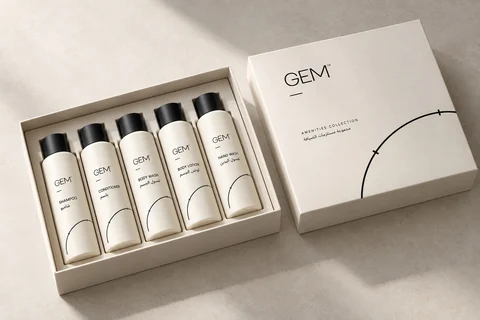
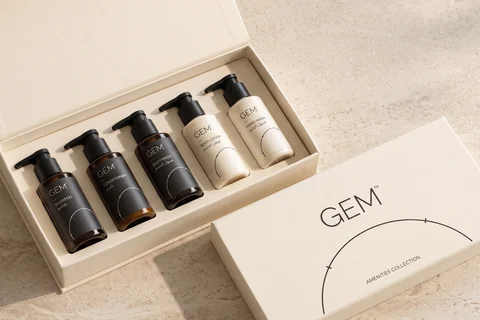
feat: integrate owner-approved room, travel, lobby and turndown images (slide 4 rule)
Replaces the format-room and format-travel sources and exports and the lobby and turndown
scenes with the 31 Oct owner-approved regenerations; alt text updated (EN and AR);
manifests and dist rebuilt; approval record added. Validator 0 failures; Chromium and
Firefox 37/37. Visual approval only; rights stay open.

diff --git a/website/remake/dist/ar/about/index.html b/website/remake/dist/ar/about/index.html
@@ -1,5 +1,5 @@
 <!doctype html><html lang="ar" dir="rtl"><head><meta charset="utf-8"><meta http-equiv="Content-Security-Policy" content="form-action 'none'"><meta name="viewport" content="width=device-width,initial-scale=1"><title>عن GEM | مورّد وشريك في قطاع الضيافة</title><meta name="description" content="تعرّف على GEM وتوجّهها نحو هوية متناسقة لمستلزمات الضيوف والتغليف، للمُلّاك والمطوّرين وفرق التشغيل والمشتريات في السعودية والخليج."><meta name="robots" content="noindex,nofollow"><meta name="theme-color" content="#12171D"><meta property="og:title" content="عن GEM | مورّد وشريك في قطاع الضيافة"><meta property="og:description" content="تعرّف على GEM وتوجّهها نحو هوية متناسقة لمستلزمات الضيوف والتغليف، للمُلّاك والمطوّرين وفرق التشغيل والمشتريات في السعودية والخليج."><meta property="og:site_name" content="GEM"><meta property="og:type" content="website"><meta property="og:locale" content="ar_SA"><meta property="og:locale:alternate" content="en_GB"><meta property="og:image" content="/assets/social.png"><meta property="og:image:width" content="1200"><meta property="og:image:height" content="630"><meta property="og:image:alt" content="مجموعة مستلزمات الضيافة والتغليف من GEM"><meta name="twitter:image" content="/assets/social.png"><meta name="twitter:card" content="summary_large_image"><meta name="twitter:title" content="عن GEM | مورّد وشريك في قطاع الضيافة"><meta name="twitter:description" content="تعرّف على GEM وتوجّهها نحو هوية متناسقة لمستلزمات الضيوف والتغليف، للمُلّاك والمطوّرين وفرق التشغيل والمشتريات في السعودية والخليج."><link rel="icon" href="/favicon.svg" type="image/svg+xml"><link rel="icon" href="/favicon-32.png" type="image/png" sizes="32x32"><link rel="apple-touch-icon" href="/apple-touch-icon.png"><link rel="preload" href="/assets/arabic.woff2" as="font" type="font/woff2" crossorigin><link rel="stylesheet" href="/style.css?v=41d4e1cbed"><link rel="stylesheet" href="/pilot.css?v=810ac6fd34"><link rel="stylesheet" href="/layout.css?v=5aac60fba3"><link rel="stylesheet" href="/integration.css?v=3925b3f7fa"><script src="/app.js?v=bc7d7f356b" defer></script></head><body data-page="about" data-lang="ar"><a class="skip" href="#main">انتقل إلى المحتوى</a><header class="site-header"><a class="logo" href="/ar/" aria-label="GEM — الرئيسية"><img src="/assets/logo-ink.svg" width="142" height="46" alt="GEM"></a><button class="menu-toggle" aria-expanded="false" aria-controls="navigation">القائمة<span aria-hidden="true">＋</span></button><nav id="navigation" aria-label="التنقل الرئيسي"><a  class="" href="/ar/amenities-packaging/">مستلزمات الضيافة والتغليف</a><a aria-current="page" class="" href="/ar/about/">عن GEM</a><a  class="nav-cta" href="/ar/contact/">لنتحدث عن مشروعك</a><a class="language" href="/en/about/" lang="en" dir="ltr">English</a></nav></header><main id="main"><section class="hero" aria-labelledby="h1">
- <picture><img src="/assets/lobby.webp" alt="عبوة غسول يدين كهرمانية من GEM بمضخة على قاعدة حجرية أمام جدار منحوت وظلال شبكية" fetchpriority="high" decoding="async"></picture>
+ <picture><img src="/assets/lobby.webp" alt="عبوة غسول اليدين الكريمية من GEM بمضخة على قاعدة حجرية أمام جدار منحوت وظلال شبكية" fetchpriority="high" decoding="async"></picture>
  <div class="hero-copy">
   <h1 id="h1">هوية واحدة.<br>ورؤية واضحة.</h1>
   <p class="intro">تتبنّى GEM نهجًا دقيقًا ومتزنًا لمستلزمات الضيافة والتغليف. غايتنا أن يسهم كل تفصيل في تجربة ضيف متناسقة.</p>

diff --git a/website/remake/dist/ar/index.html b/website/remake/dist/ar/index.html
@@ -14,14 +14,14 @@
 <section>
  <div class="wrap split">
   <div class="copy"><h2>من أول تفصيل<br>إلى تجربة متكاملة.</h2><p>يتعرّف الضيف إلى المنشأة من خلال تفاصيلها. عبوة مستلزمات. تغليف ترحيبي. معلومة على ملصق. يجمع توجّه <bdi lang="en">GEM</bdi> هذه العناصر بلغة بصرية متناسقة، تراعي الاحتياجات العملية لكل منشأة.</p></div>
-  <figure><img src="/assets/turndown.webp" alt="عبوتان كهرمانيتان من GEM بمضخة على صينية خشبية بجانب بطاقة GEM ومنديل كتاني" loading="lazy" decoding="async"></figure>
+  <figure><img src="/assets/turndown.webp" alt="عبوة غسول الجسم الكهرمانية وعبوة لوشن الجسم الكريمية من GEM، كلتاهما بمضخة، على صينية خشبية بجانب بطاقة GEM ومنديل كتاني" loading="lazy" decoding="async"></figure>
  </div>
 </section>
 <section class="tone-sand">
  <div class="wrap cards">
   <article class="card"><img src="/assets/carton.webp" alt="عبوة شامبو كهرمانية من GEM بمضخة أمام علبة GEM كريمية على رف حجري" loading="lazy" decoding="async"><div class="body"><h3>مستلزمات الضيوف</h3><p>خمسة منتجات أولية تجمعها هوية واضحة وترتيب متّسق للمعلومات.</p><a class="more" href="/ar/amenities-packaging/#pilot-products">استكشف المجموعة الأولية <span aria-hidden="true">→</span></a></div></article>
   <article class="card"><img src="/assets/packaging.webp" alt="علب تقديم كريمية من GEM وعلبة كرافت وبطاقة GEM على سطح من الترافرتين" loading="lazy" decoding="async"><div class="body"><h3>صيغ التغليف</h3><p>صيغ للغرف، والتثبيت على الجدار، والسفر، تستجيب لسياقات مختلفة في الضيافة.</p><a class="more" href="/ar/amenities-packaging/#formats">تعرّف على الصيغ <span aria-hidden="true">→</span></a></div></article>
-  <article class="card"><img src="/assets/lobby.webp" alt="عبوة غسول يدين كهرمانية من GEM بمضخة على قاعدة حجرية أمام جدار منحوت وظلال شبكية" loading="lazy" decoding="async"><div class="body"><h3>برامج المنشآت</h3><p>يجري تحديد برنامجَي <bdi lang="en">Property Edition</bdi> و<bdi lang="en">Bespoke Programme</bdi>. النطاق والتوافر قيد التحديد.</p><a class="more" href="/ar/amenities-packaging/#programmes">استكشف التوجّه <span aria-hidden="true">→</span></a></div></article>
+  <article class="card"><img src="/assets/lobby.webp" alt="عبوة غسول اليدين الكريمية من GEM بمضخة على قاعدة حجرية أمام جدار منحوت وظلال شبكية" loading="lazy" decoding="async"><div class="body"><h3>برامج المنشآت</h3><p>يجري تحديد برنامجَي <bdi lang="en">Property Edition</bdi> و<bdi lang="en">Bespoke Programme</bdi>. النطاق والتوافر قيد التحديد.</p><a class="more" href="/ar/amenities-packaging/#programmes">استكشف التوجّه <span aria-hidden="true">→</span></a></div></article>
  </div>
 </section>
 <section class="on-texture">

diff --git a/website/remake/dist/en/index.html b/website/remake/dist/en/index.html
@@ -14,14 +14,14 @@
 <section>
  <div class="wrap split">
   <div class="copy"><h2>From the first object<br>to the whole experience.</h2><p>A guest encounters a property through its details. An amenity bottle. A welcome pack. The information on a label. <bdi lang="en">GEM</bdi>’s direction brings these touchpoints into a consistent visual language, with room for the practical needs of each property.</p></div>
-  <figure><img src="/assets/turndown.webp" alt="Two GEM amber pump bottles on a wooden tray beside a branded GEM card and a linen napkin" loading="lazy" decoding="async"></figure>
+  <figure><img src="/assets/turndown.webp" alt="A GEM amber Body Wash and a cream Body Lotion, both with pumps, on a wooden tray beside a branded GEM card and a linen napkin" loading="lazy" decoding="async"></figure>
  </div>
 </section>
 <section class="tone-sand">
  <div class="wrap cards">
   <article class="card"><img src="/assets/carton.webp" alt="GEM amber shampoo pump bottle in front of a branded cream GEM carton on a stone shelf" loading="lazy" decoding="async"><div class="body"><h3>Guest amenities</h3><p>Five pilot products, sharing a clear identity and information order.</p><a class="more" href="/en/amenities-packaging/#pilot-products">Explore the pilot <span aria-hidden="true">→</span></a></div></article>
   <article class="card"><img src="/assets/packaging.webp" alt="Branded GEM cream presentation boxes, a kraft carton and a GEM tag on travertine" loading="lazy" decoding="async"><div class="body"><h3>Packaging formats</h3><p>Room, wall-mounted and travel formats, shaped around different hospitality contexts.</p><a class="more" href="/en/amenities-packaging/#formats">View formats <span aria-hidden="true">→</span></a></div></article>
-  <article class="card"><img src="/assets/lobby.webp" alt="GEM amber hand wash pump bottle on a stone plinth in front of a carved wall with lattice shadows" loading="lazy" decoding="async"><div class="body"><h3>Property programmes</h3><p><bdi lang="en">Property Edition</bdi> and <bdi lang="en">Bespoke Programme</bdi> are being defined. Scope and availability remain pending.</p><a class="more" href="/en/amenities-packaging/#programmes">Explore the direction <span aria-hidden="true">→</span></a></div></article>
+  <article class="card"><img src="/assets/lobby.webp" alt="GEM cream Hand Wash pump bottle on a stone plinth in front of a carved wall with lattice shadows" loading="lazy" decoding="async"><div class="body"><h3>Property programmes</h3><p><bdi lang="en">Property Edition</bdi> and <bdi lang="en">Bespoke Programme</bdi> are being defined. Scope and availability remain pending.</p><a class="more" href="/en/amenities-packaging/#programmes">Explore the direction <span aria-hidden="true">→</span></a></div></article>
  </div>
 </section>
 <section class="on-texture">

diff --git a/website/records/visual-replacements-20261031/APPROVAL-20261031.md b/website/records/visual-replacements-20261031/APPROVAL-20261031.md
@@ -1,0 +1,14 @@
+# Owner approval — regenerated room, travel, lobby and turndown images — 31 October 2026
+
+The owner reviewed the four candidates on the private "GEM Image Review" page and approved each ("reviewed and approved, integrate them"). The page's saved choices record "Approve" for room, travel, lobby and turndown, with no change notes. Owner-reported, no signed record.
+
+Integrated:
+- Room format → `website/remake/assets/source/format-room-source.png`, `exports/format-room-480.webp`, `format-room-960.webp`
+- Travel format → `source/format-travel-source.png`, `exports/format-travel-480.webp`, `format-travel-960.webp`
+- Lobby scene → `scenes/lobby.webp`
+- Turndown scene → `scenes/turndown.webp`
+- Alt text for the lobby and turndown scenes updated in English and Arabic (cream Hand Wash; amber Body Wash with cream Body Lotion).
+
+Manifests (`assets/manifest.json`, `assets/scene-manifest.json`) updated and `dist` rebuilt. The replaced images remain in git history.
+
+Visual approval only. It does not establish public-use rights, product availability or specifications. The travel image departs from Part D slide 13 (five cream bottles with caps) because the owner chose the slide 4 rule; the Part D deck itself is unchanged. The generating model is recorded as Gemini 3.1 (owner-confirmed); L08 stays open.

diff --git a/website/records/visual-replacements-20261031/README.md b/website/records/visual-replacements-20261031/README.md
@@ -1,6 +1,6 @@
 # Regenerated room, travel, lobby and turndown images — 31 October 2026
 
-**Status: CANDIDATES, awaiting owner approval. No shipped asset has been replaced.** Visual approval only; rights (L08) stay open for these outputs.
+**Status: OWNER-APPROVED 31 Oct 2026 and integrated (see APPROVAL-20261031.md).** Visual approval only; rights (L08) stay open for these outputs.
 
 Owner decision (31 Oct 2026, in session): regenerate all four images that differ from the Part D slide 4 rule ("Regenerate all to the slide 4 rule - yes"). The rule: Shampoo, Conditioner and Body Wash dark smoked-amber, Body Lotion and Hand Wash cream, all five with matte black pumps (released Part D V3.0, slide 4).
 
